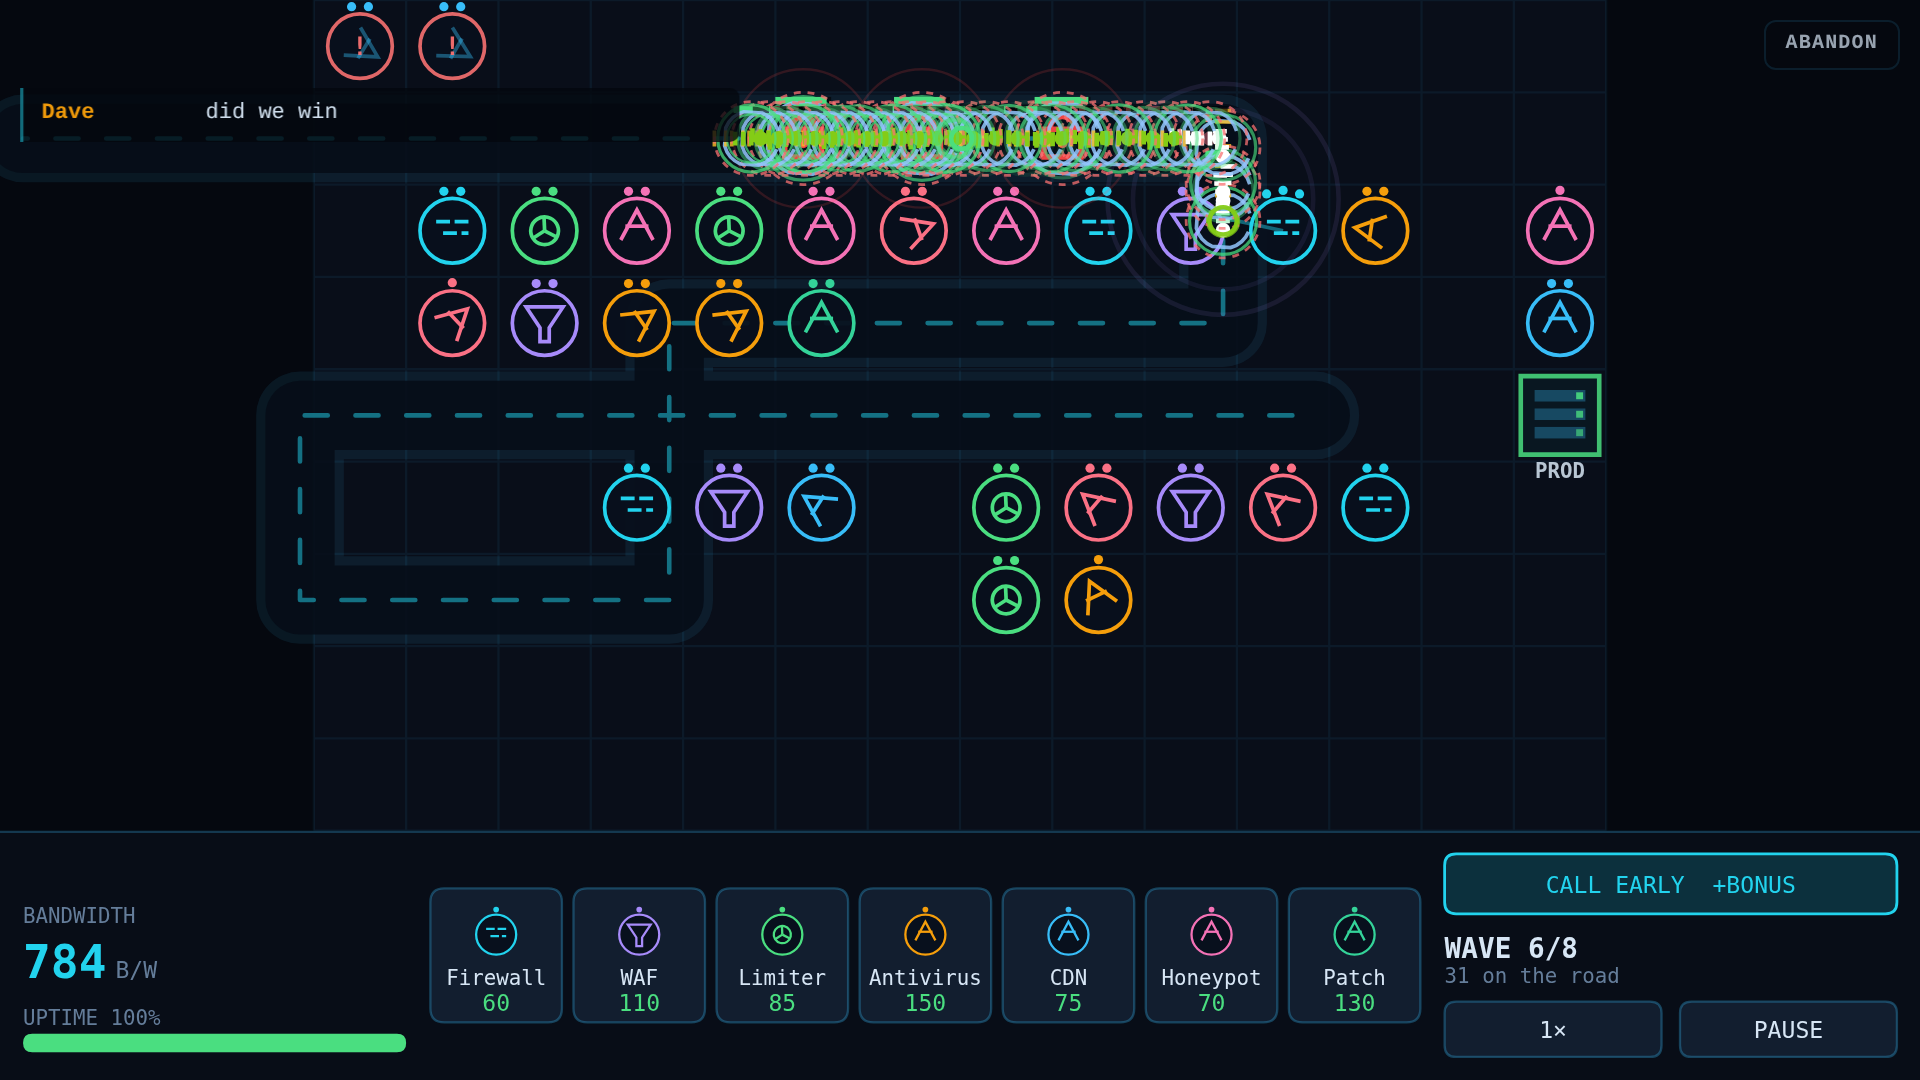
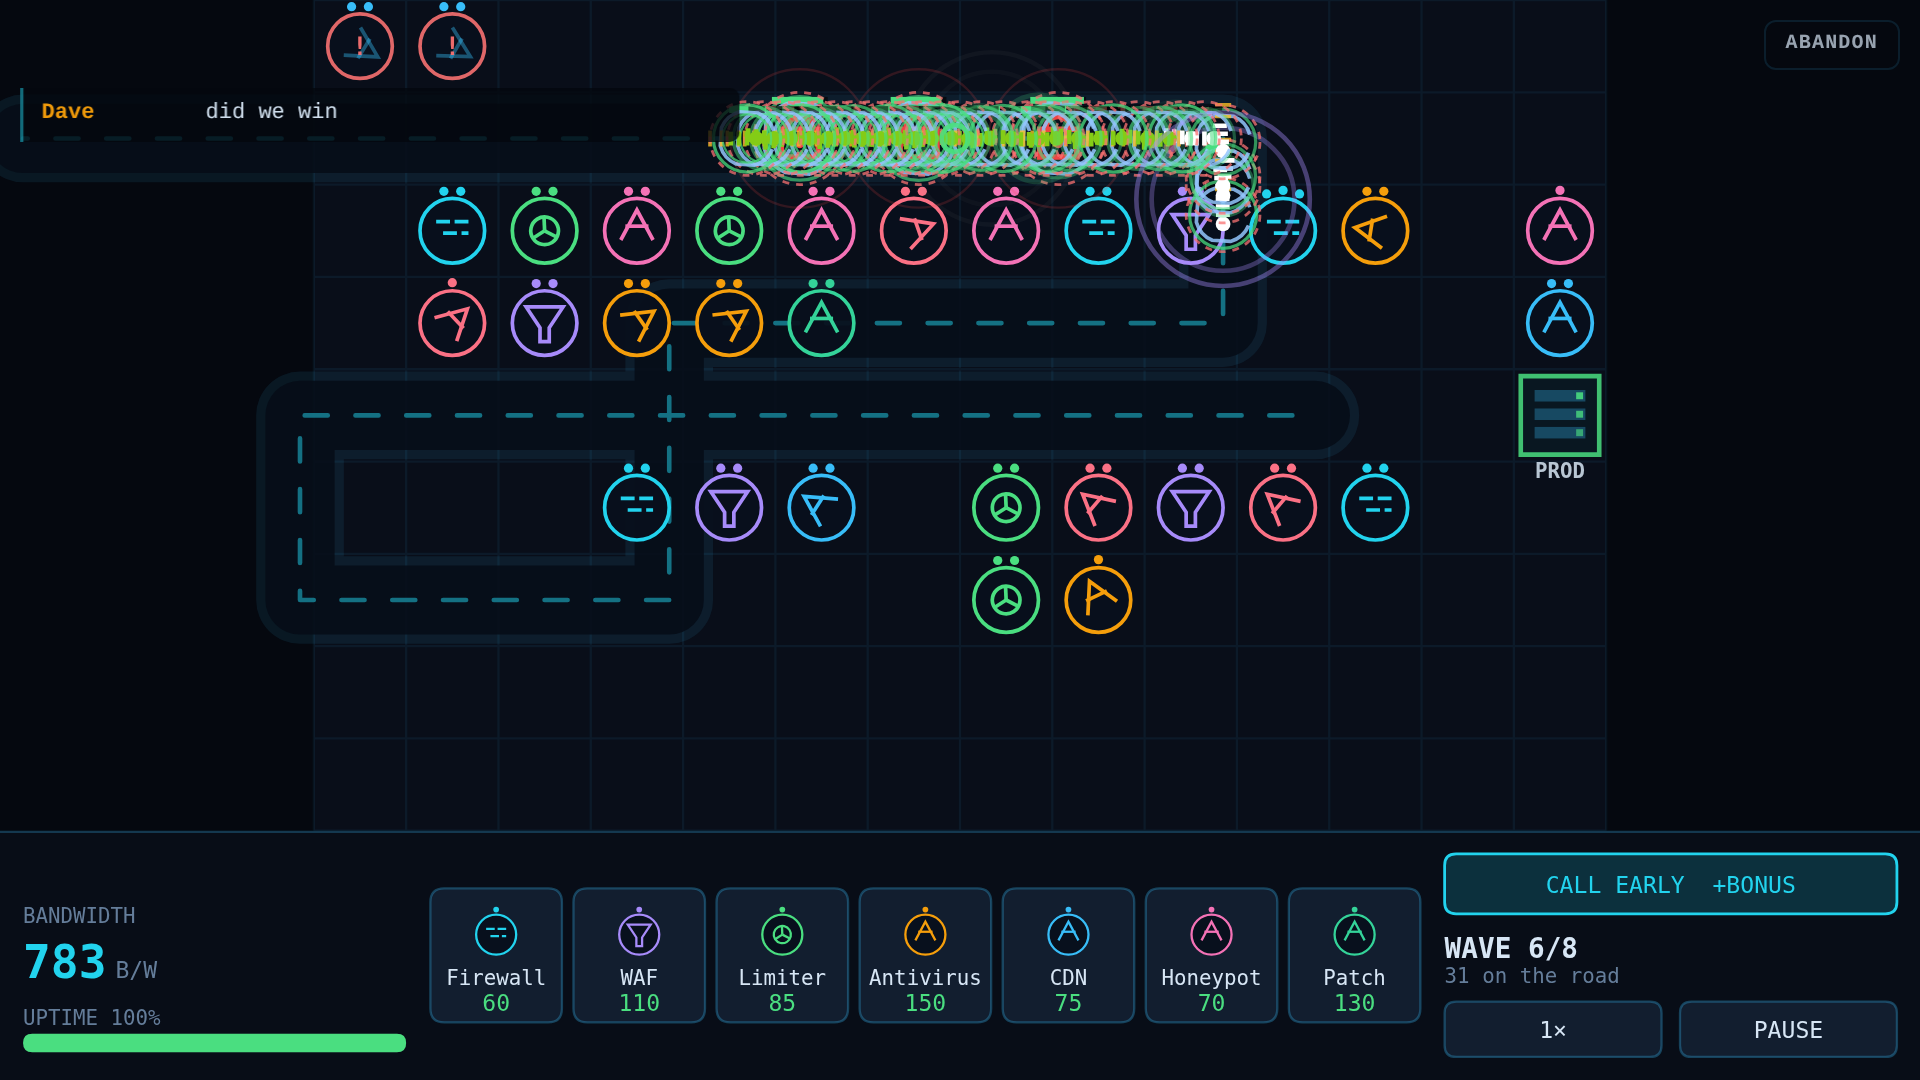
Fix the briefing, which every player reads 240 times
The sentence that introduces a ticket did not parse. INC-1220 read:

  Expect mostly Code Smells arrive in numbers and die in numbers, with DDoS
  Botnets are one hit each and there are never few of them layered in behind.

Two causes, both structural. The briefing kept its own table of clauses and
pasted them into sentences built for noun phrases, so a verb landed where a noun
belonged. And counts were followed by singular nouns - "60 DDoS Botnet", "5 DDoS
Botnet in one go" - because the name came from the threat definition, which has
one name.

Found by reading a screenshot, not by playing. That is the whole problem with
this bug: nothing reads the briefing except a player, and a player reads it once
and gets on with the wave.

The prose now lives on the threat, next to the definition the engine fights with,
and every threat carries its own plural. The sentence and the thing it describes
are then written by the same person at the same time, and the duplicated table is
gone.

Three more faults surfaced on the same screen once the first two were fixed, and
none of them were the one that was complained about:

  - The geometry clause never ended its sentence, because it was welded on after
    a dash: "...the road is a switchback shape - plain The heaviest single push
    is wave 3". Every geometry note is a clause that stands on its own, so it
    gets to be its own sentence.
  - Traits were joined with the word "and" between every pair: "They are Hardened
[…]

Changed region(s): [[0.3438, 0.0611, 0.6875, 0.275], [0.0312, 0.8861, 0.0625, 0.9167]]

diff --git a/packet-defense/www/js/campaign.js b/packet-defense/www/js/campaign.js
@@ -1150,15 +1150,40 @@
    * Presentation
    * ------------------------------------------------------------------ */
 
-  var THREAT_LINE = {
-    smell: 'Code Smells arrive in numbers and die in numbers',
-    sqli: 'SQL Injection is fast, and a Firewall barely scratches it',
-    xss: 'XSS splits into two smaller copies every time you kill one',
-    zombie: 'Zombie Processes get back up once, so chip damage will not do',
-    ransom: 'Ransomware is plated, and shuts down whatever it walks past',
-    botnet: 'DDoS Botnets are one hit each and there are never few of them',
-    zeroday: 'the Zero-Day is here, and only the Antivirus can touch it',
-  };
+  /**
+   * How to name a threat, and what to say about it.
+   *
+   * Both come from Threats.DEFS, which is the definition the engine actually
+   * fights with. That is the fix for a real bug rather than tidiness.
+   *
+   * The briefing used to carry its own table of clauses - "Code Smells arrive in
+   * numbers and die in numbers" - and paste them into sentences built for noun
+   * phrases. Every ticket in the campaign therefore opened with a sentence that
+   * did not parse:
+   *
+   *     Expect mostly Code Smells arrive in numbers and die in numbers, with
+   *     DDoS Botnets are one hit each and there are never few of them layered
+   *     in behind.
+   *
+   * It survived because nothing reads the briefing except a player, and because
+   * the table looked reasonable next to the sentence that used it. Keeping the
+   * prose beside the threat means the sentence and the thing it describes are
+   * written by the same person at the same time, and a threat added without a
+   * plural is a threat added without a briefing.
+   */
+  function nameOf(type, n) {
+    var d = deficit(type);
+    if (!d) return type;
+    return n === 1 ? d.name : (d.plural || d.name);
+  }
+
+  function adviceFor(type) {
+    var d = deficit(type);
+    if (!d) return '';
+    // `tell` is the one-line version written for the roster card; it is a
+    // fragment, so it is a fallback rather than the first choice.
+    return d.advice || '';
+  }
 
   /**
    * The briefing text.
@@ -1185,20 +1210,37 @@
     var types = Object.keys(counts).sort(function (a, b) { return counts[b] - counts[a]; });
     var parts = [];
 
-    parts.push(level.actName + '. ' + waves + ' waves, and the road is a ' +
-      (level.roadFamily || 'straight') + ' shape - ' +
-      (level.geomNote || 'read it before you spend anything'));
+    /*
+     * Two sentences, not one clause welded to another.
+     *
+     * The geometry note was appended after a dash, which read as
+     * "...and the road is a switchback shape - plain The heaviest single push
+     * is wave 3". Every note in the generator is a clause that stands on its
+     * own, so it gets to be its own sentence.
+     */
+    var geometry = level.geomNote || 'read it before you spend anything';
+    parts.push(level.actName + '. ' + waves + ' waves on a ' +
+      (level.roadFamily || 'straight') + '. ' +
+      geometry.charAt(0).toUpperCase() + geometry.slice(1) + '.');
 
     if (biggest) {
+      // The count agrees with the noun: "60 DDoS Botnets", not "60 DDoS Botnet".
       parts.push('The heaviest single push is wave ' + biggest.wave + ': ' + biggest.n + ' ' +
-        (deficit(biggest.t) ? deficit(biggest.t).name : biggest.t) + ' in one go.');
+        nameOf(biggest.t, biggest.n) + ' in one go.');
     }
 
     if (types.length > 1) {
-      parts.push('Expect mostly ' + THREAT_LINE[types[0]] + ', with ' +
-        THREAT_LINE[types[1]] + ' layered in behind.');
+      parts.push('Most of it is ' + nameOf(types[0], 2) + ', with ' +
+        nameOf(types[1], 2) + ' layered in behind.');
     } else if (types.length === 1) {
-      parts.push('This one is all ' + THREAT_LINE[types[0]] + '.');
+      parts.push('This one is all ' + nameOf(types[0], 2) + '.');
+    }
+
+    // One piece of advice, about the threat there is most of. Two would be a
+    // paragraph, and the briefing is read in a hurry.
+    if (types.length) {
+      var advice = adviceFor(types[0]);
+      if (advice) parts.push(advice);
     }
 
     if (level.traits.length) {
@@ -1206,7 +1248,13 @@
         var d = global.Threats && global.Threats.TRAITS ? global.Threats.TRAITS[t] : null;
         return d ? d.name : t;
       });
-      parts.push('They are ' + names.join(' and ') + '. You cannot answer all of it at once.');
+      // A list, joined as a list. The first version ran them together with the
+      // word "and" between every pair, so an act eleven ticket announced that
+      // its threats were "Hardened and Swiftshade and Regenerating and Undying
+      // and Saboteur" - technically a sentence, and not one anybody writes.
+      var last = names.pop();
+      parts.push('They are ' + (names.length ? names.join(', ') + ' and ' + last : last) +
+        '. You cannot answer all of it at once.');
     }
 
     if (level.boss) parts.push('Something is walking behind the last wave that you have not met.');
@@ -1340,7 +1388,7 @@
         : road.twin >= 25
           ? 'generous, with plenty of tiles that see two stretches at once'
           : 'long, which buys you time and forgives a weaker tower')
-      : 'plain';
+      : 'plain, so read it before you spend anything';
 
     level.waves = wavesFor(id);
     level.bandwidth = bandwidthFor(id, road);

diff --git a/packet-defense/www/js/threats.js b/packet-defense/www/js/threats.js
@@ -28,35 +28,39 @@
    */
   var DEFS = {
     smell: {
-      id: 'smell', name: 'Code Smell', cls: 'code',
+      id: 'smell', name: 'Code Smell', plural: 'Code Smells', cls: 'code',
       hp: 22, speed: 46, bounty: 1, leak: 4, radius: 7,
       colour: '#84cc16',
       tell: 'Arrives in numbers. Firewall food.',
+      advice: 'Code Smells arrive in numbers and die in numbers, so a Firewall placed early is enough.',
     },
     sqli: {
-      id: 'sqli', name: 'SQL Injection', cls: 'injection',
+      id: 'sqli', name: 'SQL Injection', plural: 'SQL Injections', cls: 'injection',
       hp: 44, speed: 66, bounty: 2, leak: 6, radius: 8,
       colour: '#f97316',
       tell: 'Fast, and Firewalls barely scratch it.',
+      advice: 'SQL Injection is fast and a Firewall barely scratches it, which is what the WAF is for.',
     },
     xss: {
-      id: 'xss', name: 'XSS', cls: 'code',
+      id: 'xss', name: 'XSS', plural: 'XSS', cls: 'code',
       hp: 36, speed: 54, bounty: 3, leak: 6, radius: 8,
       // One generation only. Two generations turned a single XSS into seven
       // payouts, which made this threat a piggy bank rather than a problem.
       splits: { into: 'xss', count: 2, hpFactor: 0.4, minHp: 6, maxGeneration: 1, bountyMul: 0.35 },
       colour: '#e879f9',
       tell: 'Splits in two every time it dies.',
+      advice: 'XSS splits in two every time one dies, so chip damage only makes more of them.',
     },
     zombie: {
-      id: 'zombie', name: 'Zombie Process', cls: 'malware',
+      id: 'zombie', name: 'Zombie Process', plural: 'Zombie Processes', cls: 'malware',
       hp: 60, speed: 40, bounty: 4, leak: 7, radius: 9,
       colour: '#a3a3a3',
       revives: 1,
       tell: 'Gets back up once. Antivirus finishes it properly.',
+      advice: 'Zombie Processes get back up once, so killing them twice is the whole job.',
     },
     ransom: {
-      id: 'ransom', name: 'Ransomware', cls: 'malware',
+      id: 'ransom', name: 'Ransomware', plural: 'Ransomware', cls: 'malware',
       hp: 130, speed: 36, bounty: 9, leak: 10, radius: 11,
       armour: 4,
       /*
@@ -75,21 +79,24 @@
       disables: { seconds: 4, reach: 52, maxTargets: 2 },
       colour: '#ef4444',
       tell: 'Armoured, and shuts down any tower it passes.',
+      advice: 'Ransomware is plated and shuts down the towers it walks past, so keep a row of slack behind the road.',
     },
     botnet: {
-      id: 'botnet', name: 'DDoS Botnet', cls: 'code',
+      id: 'botnet', name: 'DDoS Botnet', plural: 'DDoS Botnets', cls: 'code',
       hp: 7, speed: 74, bounty: 1, leak: 3, radius: 6,
       colour: '#38bdf8',
       tell: 'Harmless alone. There are never just one.',
+      advice: 'DDoS Botnets die to a single hit and arrive in floods, so what they punish is thin coverage, not low damage.',
     },
     zeroday: {
-      id: 'zeroday', name: 'Zero-Day', cls: 'malware',
+      id: 'zeroday', name: 'Zero-Day', plural: 'Zero-Days', cls: 'malware',
       hp: 1400, speed: 28, bounty: 90, leak: 100, radius: 16,
       armour: 8,
       immune: ['firewall', 'waf'],
       boss: true,
       colour: '#f43f5e',
       tell: 'No signature exists. Firewalls and WAFs cannot see it.',
+      advice: 'No signature exists for the Zero-Day: Firewalls and WAFs cannot see it, and only the Antivirus can.',
     },
   };
 

diff --git a/packet-defense/www/js/selftest.js b/packet-defense/www/js/selftest.js
@@ -150,6 +150,27 @@
     check('levels.js loaded', !!global.Levels, global.Levels ? global.Levels.count() + ' tickets' : 'missing');
     check('map.js loaded', !!global.PDMap);
 
+    /*
+     * The briefing can describe every threat, so it never has to guess.
+     *
+     * The briefing used to hold its own prose, and a threat that added itself to
+     * the roster without adding a line there produced a sentence that did not
+     * parse - on the one screen a player reads before all 240 tickets. The prose
+     * now lives on the threat, and this is what makes forgetting it a failure
+     * rather than a sentence nobody reads closely enough.
+     */
+    (function () {
+      var defs = global.Threats && global.Threats.DEFS;
+      if (!defs) { check('threat definitions are present', false, 'threats.js missing'); return; }
+      var types = Object.keys(defs);
+      var noPlural = types.filter(function (t) { return !defs[t].plural; });
+      var noAdvice = types.filter(function (t) { return !defs[t].advice; });
+      check('every threat has a plural for the briefing', noPlural.length === 0,
+        noPlural.length ? 'missing: ' + noPlural.join(', ') : types.length + ' threats');
+      check('every threat has briefing advice', noAdvice.length === 0,
+        noAdvice.length ? 'missing: ' + noAdvice.join(', ') : types.length + ' threats');
+    })();
+
     if (global.Store) {
       global.Store.set('selftest', 42);
       check('settings round-trip', global.Store.get('selftest') === 42, 'value ' + global.Store.get('selftest'));

diff --git a/packet-defense/tools/screenshots.js b/packet-defense/tools/screenshots.js
@@ -602,7 +602,7 @@ const SHOTS = [
   },
   {
     name: '02-briefing',
-    scene: 'The briefing for the same ticket: what is coming, and why it matters.',
+    scene: "The briefing screen for the ticket in shot one, on the default difficulty. This is the one screen that explains the game, so it is the one the store copy points at.",
     async run(ctx) {
       await ctx.page.eval(openScreen, 'brief', { levelId: BRIEF_LEVEL });
       await ctx.page.eval(frames, 3);
